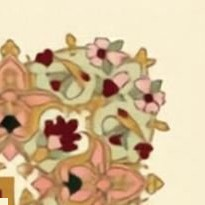
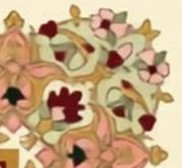
First-page border: identical bands on all four sides
The artwork bottom band sits further from the edge and differs from the
top, so the old crop lost its inner rule. Build every side from the top
and left bands, mirrored.

diff --git a/src/components/Illumination.tsx b/src/components/Illumination.tsx
@@ -277,7 +277,8 @@ export function DateBlock({ month, weekday, day, time, year, className }: { mont
  * resolution (205px band, 317px horizontal repeat, 298px vertical repeat)
  * and are tiled here at a band width proportional to the column.
  */
-const REF = { C: 205, PH: 317, PV: 298 }
+// top/bottom bands are 168 tall, left/right bands 182 wide (source px)
+const REF = { BH: 168, BW: 182, PH: 317, PV: 298 }
 
 export function ReferenceFrame({ className, bandRatio = 0.155 }: { className?: string; bandRatio?: number }) {
   const ref = useRef<SVGSVGElement>(null)
@@ -291,25 +292,26 @@ export function ReferenceFrame({ className, bandRatio = 0.155 }: { className?: s
   }, [])
   const [W, H] = size
   const id = useId().replace(/:/g, '')
-  const band = Math.round(W * bandRatio)
-  const s = band / REF.C
+  const bh = Math.round(W * bandRatio)          // top & bottom thickness
+  const s = bh / REF.BH
+  const bw = Math.round(REF.BW * s)              // left & right thickness
   const tw = REF.PH * s, th = REF.PV * s
   return (
     <svg ref={ref} className={className} viewBox={`0 0 ${W} ${H}`} preserveAspectRatio="none" aria-hidden="true" focusable="false">
       <defs>
-        <pattern id={`bt${id}`} patternUnits="userSpaceOnUse" x={band} y={0} width={tw} height={band}><image href={`${B}border/e-top.jpg`} width={tw} height={band} preserveAspectRatio="none" /></pattern>
-        <pattern id={`bb${id}`} patternUnits="userSpaceOnUse" x={band} y={H - band} width={tw} height={band}><image href={`${B}border/e-bottom.jpg`} width={tw} height={band} preserveAspectRatio="none" /></pattern>
-        <pattern id={`bl${id}`} patternUnits="userSpaceOnUse" x={0} y={band} width={band} height={th}><image href={`${B}border/e-left.jpg`} width={band} height={th} preserveAspectRatio="none" /></pattern>
-        <pattern id={`br${id}`} patternUnits="userSpaceOnUse" x={W - band} y={band} width={band} height={th}><image href={`${B}border/e-right.jpg`} width={band} height={th} preserveAspectRatio="none" /></pattern>
+        <pattern id={`bt${id}`} patternUnits="userSpaceOnUse" x={bw} y={0} width={tw} height={bh}><image href={`${B}border/e-top.jpg`} width={tw} height={bh} preserveAspectRatio="none" /></pattern>
+        <pattern id={`bb${id}`} patternUnits="userSpaceOnUse" x={bw} y={H - bh} width={tw} height={bh}><image href={`${B}border/e-bottom.jpg`} width={tw} height={bh} preserveAspectRatio="none" /></pattern>
+        <pattern id={`bl${id}`} patternUnits="userSpaceOnUse" x={0} y={bh} width={bw} height={th}><image href={`${B}border/e-left.jpg`} width={bw} height={th} preserveAspectRatio="none" /></pattern>
+        <pattern id={`br${id}`} patternUnits="userSpaceOnUse" x={W - bw} y={bh} width={bw} height={th}><image href={`${B}border/e-right.jpg`} width={bw} height={th} preserveAspectRatio="none" /></pattern>
       </defs>
-      <rect x={band} y={0} width={W - band * 2} height={band} fill={`url(#bt${id})`} />
-      <rect x={band} y={H - band} width={W - band * 2} height={band} fill={`url(#bb${id})`} />
-      <rect x={0} y={band} width={band} height={H - band * 2} fill={`url(#bl${id})`} />
-      <rect x={W - band} y={band} width={band} height={H - band * 2} fill={`url(#br${id})`} />
-      <image href={`${B}border/c-tl.jpg`} x={0} y={0} width={band} height={band} preserveAspectRatio="none" />
-      <image href={`${B}border/c-tr.jpg`} x={W - band} y={0} width={band} height={band} preserveAspectRatio="none" />
-      <image href={`${B}border/c-bl.jpg`} x={0} y={H - band} width={band} height={band} preserveAspectRatio="none" />
-      <image href={`${B}border/c-br.jpg`} x={W - band} y={H - band} width={band} height={band} preserveAspectRatio="none" />
+      <rect x={bw} y={0} width={W - bw * 2} height={bh} fill={`url(#bt${id})`} />
+      <rect x={bw} y={H - bh} width={W - bw * 2} height={bh} fill={`url(#bb${id})`} />
+      <rect x={0} y={bh} width={bw} height={H - bh * 2} fill={`url(#bl${id})`} />
+      <rect x={W - bw} y={bh} width={bw} height={H - bh * 2} fill={`url(#br${id})`} />
+      <image href={`${B}border/c-tl.jpg`} x={0} y={0} width={bw} height={bh} preserveAspectRatio="none" />
+      <image href={`${B}border/c-tr.jpg`} x={W - bw} y={0} width={bw} height={bh} preserveAspectRatio="none" />
+      <image href={`${B}border/c-bl.jpg`} x={0} y={H - bh} width={bw} height={bh} preserveAspectRatio="none" />
+      <image href={`${B}border/c-br.jpg`} x={W - bw} y={H - bh} width={bw} height={bh} preserveAspectRatio="none" />
     </svg>
   )
 }
